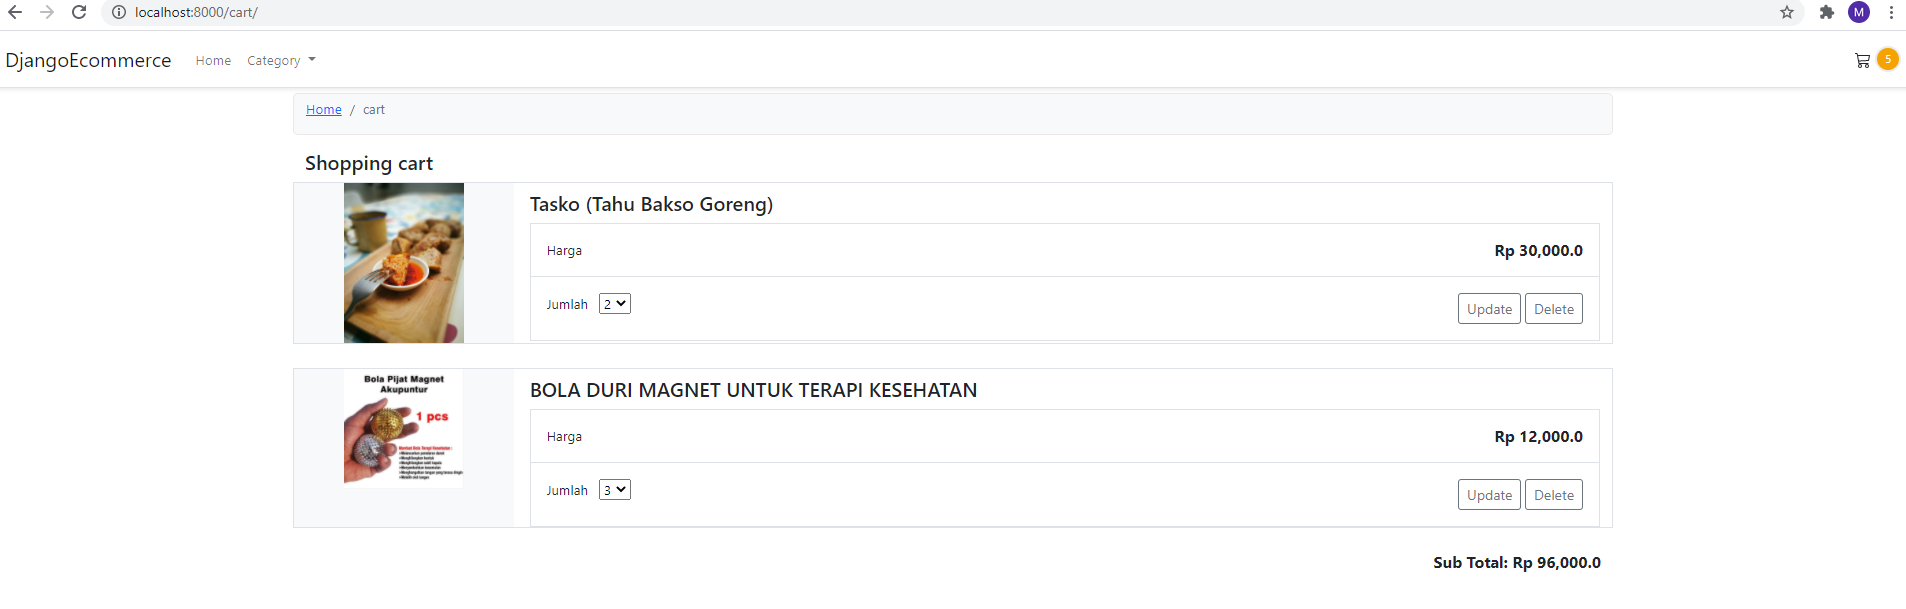
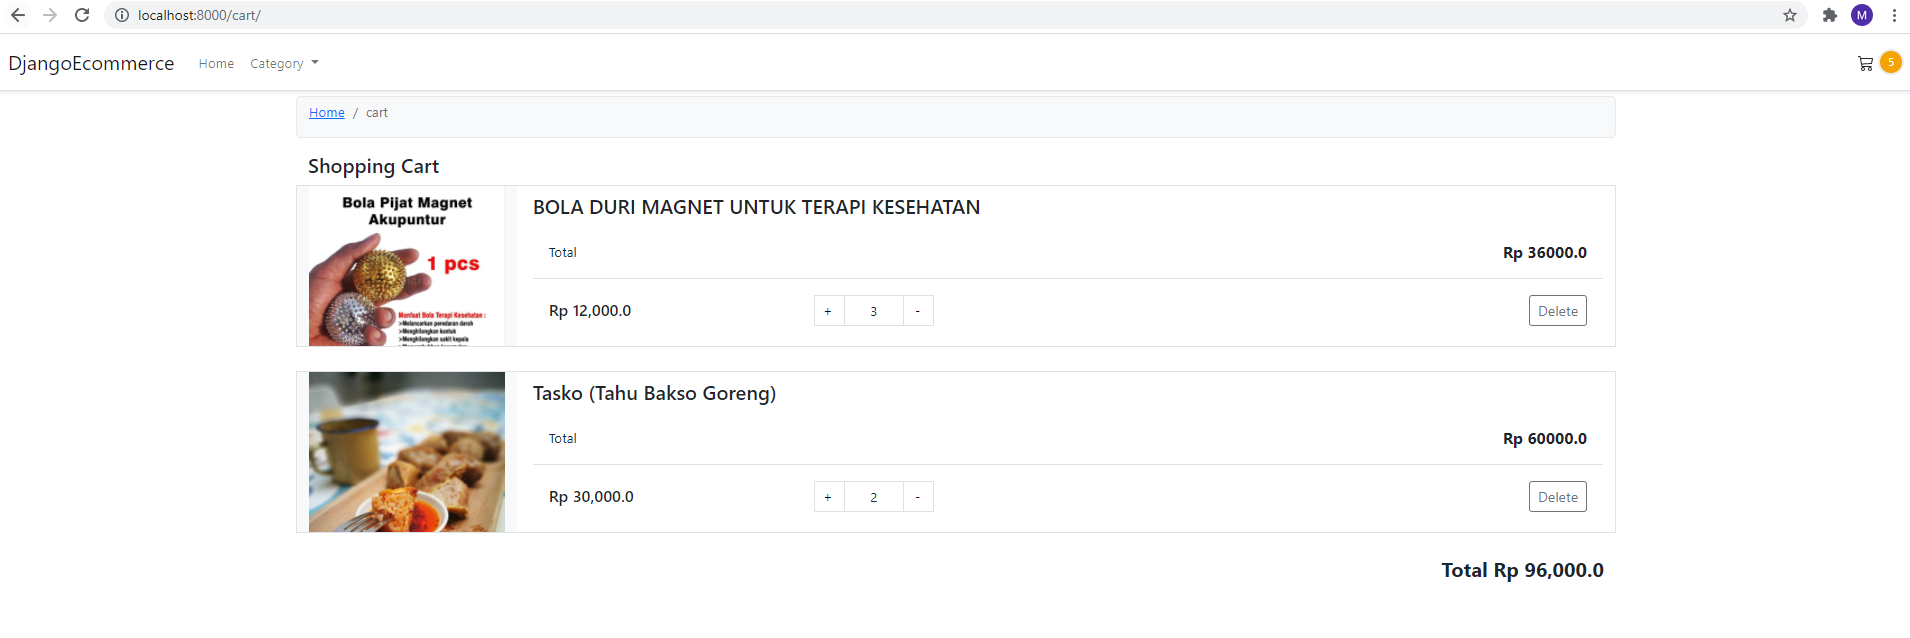
update view cart

diff --git a/templates/cart/summary.html b/templates/cart/summary.html
@@ -13,28 +13,28 @@
 
 {% block content %}
     <div class="container">
-        <h1 class="h5">Shopping cart</h1>
+        <h1 class="h5">Shopping Cart</h1>
         {% for item in cart %}
              {% with product=item.product %}
              <div data-index="{{ product.id }}" class="row mb-4 border product-item">
                  <div class="col-md-3 col-lg-2 order-md-first bg-light">
-                     <img class="img-fluid mx-auto d-block" width="120px" alt="Responsive image" src="{{ product.image.url }}">
+                     <div style="height: 160px; width: auto; background-image: url('{{ product.image.url }}'); background-size: cover;"></div>
                  </div>
                  <div class="col-md-9 col-lg-10 ps-md-3 ps-lg-10">
                      <a href="{{ product.get_absolute_url }}" class="text-decoration-none text-reset">
                          <h1 class="h5 pt-2">{{ product.title }}</h1>
                      </a>
-                     <div class="border">
+                     <div>
                          <div class="col border-bottom">
                              <div class="row p-3">
-                                 <div class="col-6">Harga</div>
-                                 <div class="col-6 text-end"><span class="h6 fw-bold">Rp {% load humanize %} {{ product.price|intcomma }}</span></div>
+                                 <div class="col-6">Total</div>
+                                 <div class="col-6 text-end"><span class="h6 fw-bold">Rp <div id="item-total-{{ product.id }}" class="d-inline-flex">{% load mathfilters %} {{ product.price|mul:item.qty }}</div></span></div>
                              </div>
                          </div>
                          <div class="col">
                              <div class="row p-3">
                                  <div class="col-6">
-                                     <label for="select">Jumlah</label>
+                                     <!--label for="select">Jumlah</label>
                                      &nbsp;
                                      <select id="select{{ product.id }}">
                                          {% with select_array='1 2 3 4' %}
@@ -42,10 +42,22 @@
                                                  <option {% if i == item.qty|stringformat:".0f" %} selected="selected" {% endif %}>{{ i }}</option>
                                              {% endfor %}
                                          {% endwith %}
-                                     </select>
+                                     </select-->
+                                     <div class="row">
+                                         <div class="col-md-6">
+                                         <div class="h6" style="margin-top: 5px;">Rp <div id="item-price-{{ product.id }}" class="d-inline-flex">{% load humanize %}{{ product.price|intcomma }}</div></div>
+                                         </div>
+                                         <div class="col-md-6">
+                                         <div style="border: 1px solid #e0e0e0; white-space: nowrap; width: 120px;">
+                                             <button style="cursor: pointer; padding: 5px; display: inline-block; width: 25px; text-align: center; border: none; background: white; outline: none;" onclick="increase('{{ product.id }}')">+</button>
+                                             <div style="display: inline-block; padding: 5px; border-left: 1px solid #e0e0e0; border-right: 1px solid #e0e0e0; width: 60px; text-align: center;" id="item-qty-{{ product.id }}">{{ item.qty }}</div>
+                                             <button style="cursor: pointer; padding: 5px; display: inline-block; width: 20px; text-align: center; border: none; background: white; outline: none;" onclick="decrease('{{ product.id }}')">-</button>
+                                         </div>
+                                         </div>
+                                     </div>
                                  </div>
                                  <div class="col-6 text-end">
-                                     <button type="button" id="update-button" data-index="{{ product.id }}" class="btn btn-outline-secondary btn-sm update-button">Update</button>
+                                     <!--button type="button" id="update-button" data-index="{{ product.id }}" class="btn btn-outline-secondary btn-sm update-button">Update</button-->
                                      <button type="button" id="delete-button" data-index="{{ product.id }}" class="btn btn-outline-secondary btn-sm delete-button">Delete</button>
                                  </div>
                              </div>
@@ -56,7 +68,7 @@
              {% endwith %}
         {% endfor %}
         <div class="col-12 text-end">
-            <div class="h6 fw-bold">Sub Total: Rp <div id="subtotal" class="d-inline-flex">{% load humanize %} {{ cart.get_total_price|intcomma }}</div></div>
+            <div class="h5 fw-bold">Total Rp <div id="subtotal" class="d-inline-flex">{% load humanize %} {{ cart.get_total_price|intcomma }}</div></div>
         </div>
     </div>
     <script>
@@ -75,7 +87,7 @@
                 success: function (json) {
                     $('.product-item[data-index="' + prodid + '"]').remove();
                     document.getElementById("subtotal").innerHTML = json.subtotal;
-                    document.getElementById("basket-qty").innerHTML = json.qty
+                    document.getElementById("cart-qty").innerHTML = json.qty
                 },
                 error: function (xhr, errmsg, err) {}
             });
@@ -95,11 +107,62 @@
                     action: 'post'
                 },
                 success: function (json) {
-                    document.getElementById("basket-qty").innerHTML = json.qty
+                    document.getElementById("cart-qty").innerHTML = json.qty
                     document.getElementById("subtotal").innerHTML = json.subtotal
                 },
                 error: function (xhr, errmsg, err) {}
             });
         })
+        
+        function increase(id) {
+            var qty = parseInt(document.getElementById('item-qty-' + id).innerHTML)
+            var price = Number(document.getElementById('item-price-' + id).innerHTML.replace(/[^0-9.-]+/g,""))
+            
+            qty = qty >= 4 ? 4 : qty + 1
+            
+            $.ajax({
+                type: 'POST',
+                url: '{% url "cart:cart_update" %}',
+                data: {
+                    productid: id,
+                    productqty: qty,
+                    csrfmiddlewaretoken: "{{csrf_token}}",
+                    action: 'post'
+                },
+                success: function (json) {
+                    document.getElementById('item-qty-' + id).innerHTML = qty
+                    document.getElementById('item-total-' + id).innerHTML = (new Intl.NumberFormat('id-ID').format(price * qty)).split(".").join(",") + '.0'
+                    
+                    document.getElementById("cart-qty").innerHTML = json.qty
+                    document.getElementById("subtotal").innerHTML = (new Intl.NumberFormat('id-ID').format(json.subtotal)).split(".").join(",") + '.0'
+                },
+                error: function (xhr, errmsg, err) {}
+            });
+        }
+        
+        function decrease(id) {
+            var qty = parseInt(document.getElementById('item-qty-' + id).innerHTML)
+            var price = Number(document.getElementById('item-price-' + id).innerHTML.replace(/[^0-9.-]+/g,""))
+            
+            qty = qty == 1 ? qty : qty - 1
+            $.ajax({
+                type: 'POST',
+                url: '{% url "cart:cart_update" %}',
+                data: {
+                    productid: id,
+                    productqty: qty,
+                    csrfmiddlewaretoken: "{{csrf_token}}",
+                    action: 'post'
+                },
+                success: function (json) {
+                    document.getElementById('item-qty-' + id).innerHTML = qty
+                    document.getElementById('item-total-' + id).innerHTML = (new Intl.NumberFormat('id-ID').format(price * qty)).split(".").join(",") + '.0'
+                    
+                    document.getElementById("cart-qty").innerHTML = json.qty
+                    document.getElementById("subtotal").innerHTML = (new Intl.NumberFormat('id-ID').format(json.subtotal)).split(".").join(",") + '.0'
+                },
+                error: function (xhr, errmsg, err) {}
+            });
+        }
     </script>
 {% endblock %}

diff --git a/templates/core/base.html b/templates/core/base.html
@@ -44,11 +44,9 @@
                             <path d="M0 1.5A.5.5 0 0 1 .5 1H2a.5.5 0 0 1 .485.379L2.89 3H14.5a.5.5 0 0 1 .49.598l-1 5a.5.5 0 0 1-.465.401l-9.397.472L4.415 11H13a.5.5 0 0 1 0 1H4a.5.5 0 0 1-.491-.408L2.01 3.607 1.61 2H.5a.5.5 0 0 1-.5-.5zM3.102 4l.84 4.479 9.144-.459L13.89 4H3.102zM5 12a2 2 0 1 0 0 4 2 2 0 0 0 0-4zm7 0a2 2 0 1 0 0 4 2 2 0 0 0 0-4zm-7 1a1 1 0 1 1 0 2 1 1 0 0 1 0-2zm7 0a1 1 0 1 1 0 2 1 1 0 0 1 0-2z" />
                         </svg>
                         {% with total_qty=cart|length %}
-                            {% if total_qty > 0 %}
-                                <div id="basket-qty" class="d-inline-flex" style="width: 26px; height: 26px; font-size: 8pt; justify-content: center; align-items: center; background-color: #f5a302; color: #fff; border-radius: 50%; border: 2px solid #eaeaea;">
-                                    {{ total_qty }}
-                                </div>
-                            {% endif %}
+                            <div id="cart-qty" class="d-inline-flex" style="width: 26px; height: 26px; font-size: 8pt; justify-content: center; align-items: center; background-color: #f5a302; color: #fff; border-radius: 50%; border: 2px solid #eaeaea;">
+                                {{ total_qty }}
+                            </div>
                         {% endwith %}
                     </a>
                 </div>

diff --git a/templates/store/products/category.html b/templates/store/products/category.html
@@ -27,7 +27,7 @@
                             <a class="text-dark text-decoration-none" href="{{ product.get_absolute_url }}">{{ product.title }}</a>
                         </div>
                         <div class="d-flex justify-content-between align-items-center">
-                            <small class="text-muted">Rp. <font style="font-weight: bold; font-size: 16px;">{{ product.price }}</font></small>
+                            <small class="text-muted">Rp. <font style="font-weight: bold; font-size: 16px;">{% load humanize %} {{ product.price|intcomma }}</font></small>
                         </div>
                     </div>
                 </div>

diff --git a/core/settings.py b/core/settings.py
@@ -32,6 +32,7 @@ INSTALLED_APPS = [
     'django_bootstrap_breadcrumbs',
     'django.contrib.humanize',
     'cart',
+    'mathfilters',
 ]
 
 MIDDLEWARE = [
